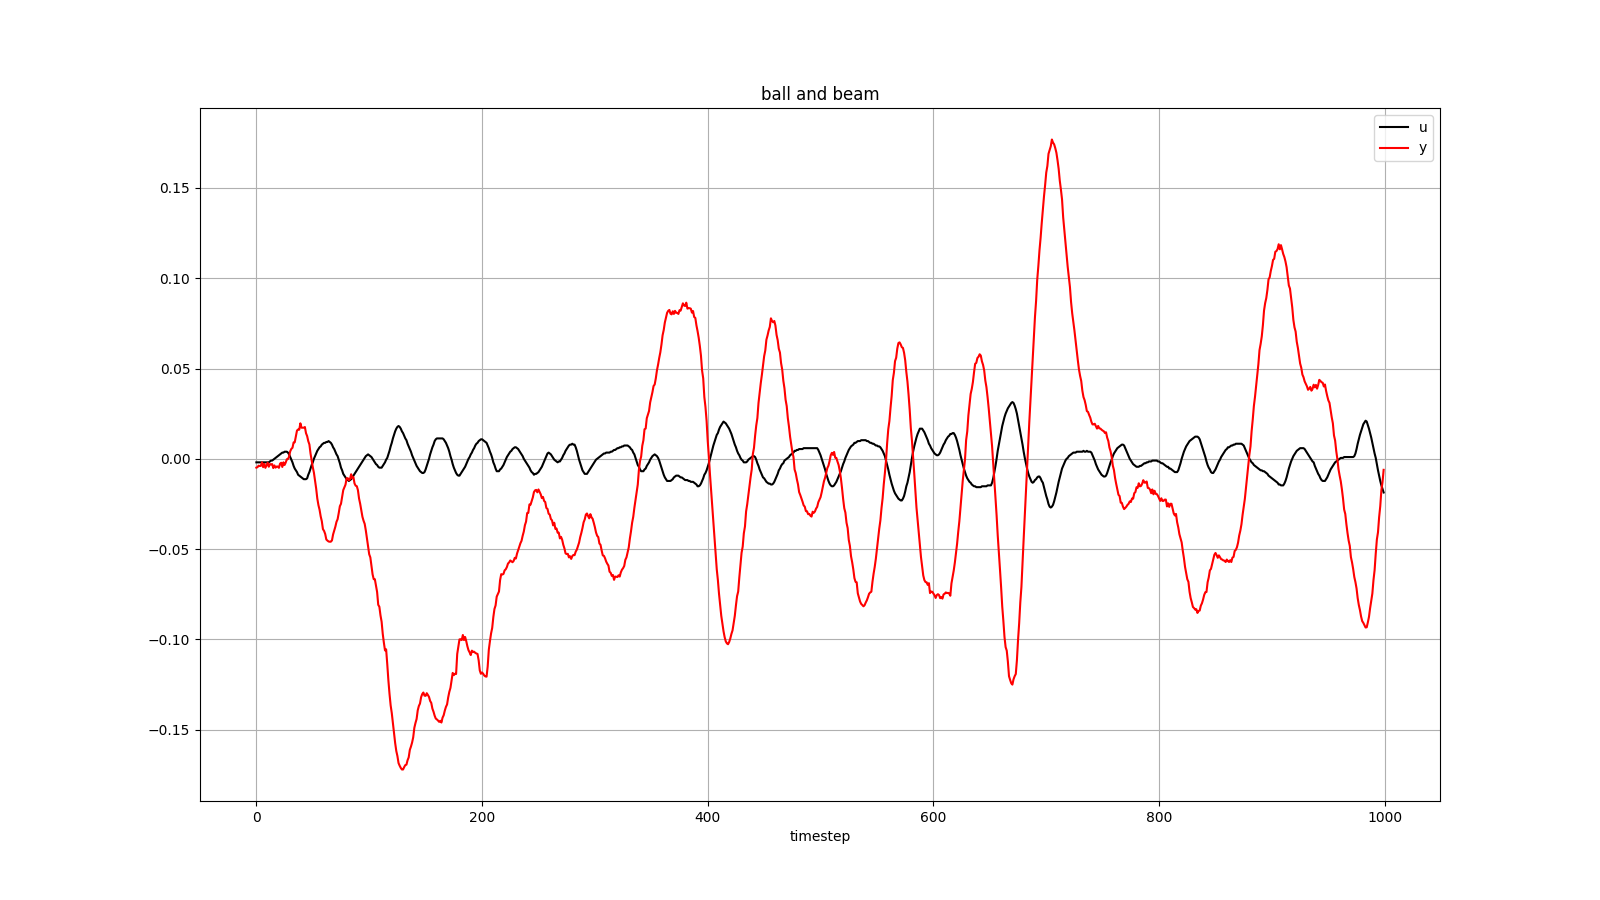
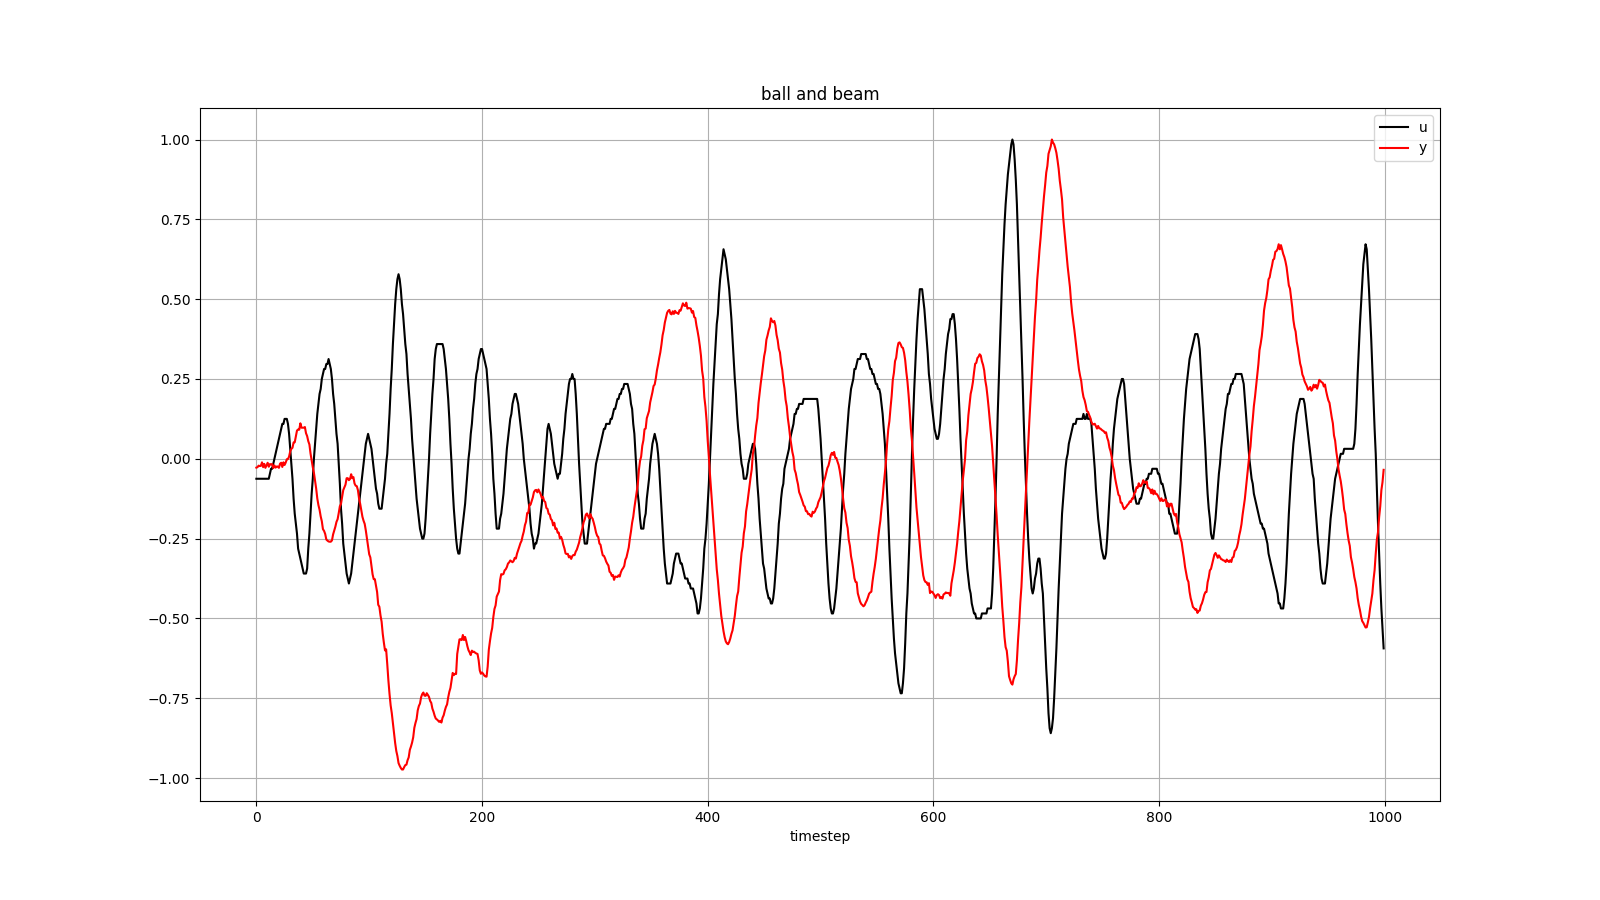
adds FINAL RESULTS to frols

diff --git a/src/main.py b/src/main.py
@@ -42,8 +42,10 @@ if __name__ == "__main__":
 
     # loading the data
 
-    dataset_name = "robot-arm"
-    df = pd.read_csv(f"src/data/{dataset_name}.csv")
+    dataset_name = "ball-and-beam"
+    
+    if dataset_name != "uniform":
+        df = pd.read_csv(f"src/data/{dataset_name}.csv")
 
     if dataset_name in ["ball-and-beam", "robot-arm"]:
         u = df["u"].values
@@ -57,33 +59,59 @@ if __name__ == "__main__":
     elif dataset_name == "tanque":
         u_train, y_train = df["uEst"].values, df["yEst"].values
         u_test, y_test = df["uVal"].values, df["yVal"].values
+    elif dataset_name == "uniform":
+        u = np.random.uniform(-1, 1, 200)
+        y = np.zeros_like(u)
+
+        for k in range(2, len(y)):
+            y[k] = -0.605 * y[k - 1] - 0.163 * y[k - 2]**2 + 0.588 * u[k - 1] - 0.240 * u[k - 2]
 
     # separate the data into training and testing sets
 
     if dataset_name != "tanque":
+        mu, my = np.max(np.abs(u)), np.max(np.abs(y))
+
+        u = u / mu
+        y = y / my
+
+        n_train = int(0.2 * u.shape[0])
+        u_train, u_test = u[-n_train:], u[:-n_train]
+        y_train, y_test = y[-n_train:], y[:-n_train]
 
         plot_io(
             u=u, y=y, title=dataset_name.replace('-', ' ')
         )
+    else:
+        mu_train, mu_test = np.max(np.abs(u_train)), np.max(np.abs(u_test))
+        my_train, my_test = np.max(np.abs(y_train)), np.max(np.abs(y_test))
 
-        n_train = int(0.2 * df.shape[0])
-        u_train, u_test = u[-n_train:], u[:-n_train]
-        y_train, y_test = y[-n_train:], y[:-n_train]
+        u_train, u_test = u_train / mu_train, u_test / mu_test
+        y_train, y_test = y_train / my_train, y_test / my_test
+
+        plot_io(
+            u=u_train, y=y_train, title=f"{dataset_name.replace('-', ' ')}"
+        )
+
+    if dataset_name == "SNLS80mV":
+        dataset_name = "silverbox"
+
+    plt.savefig(f"src/results/{dataset_name}/io.png")
+    plt.show()
 
     # creating the data matrix for the train set
 
-    nu, ny, ne = 3, 3, 0
+    nu, ny, ne = 5, 5, 0
     dm = sd.data_matrix(u=u_train, y=y_train, nu=nu, ny=ny, ne=ne)
 
     # creating the candidate matrix for the train set
-    nlin = 3
+    nlin = 1
     cm, comb = sd.candidate_matrix(dm, nlin)
 
     Y = y_train[:-max(nu, ny, ne)]
 
-    tol = 0.01
+    tol = 0
     # structure selection with frols
-    selected, ERR = frols(cm, Y, tol, 5)
+    selected, ERR = frols(cm, Y, tol, 10)
 
     # parameter estimation on train set
     P = cm[:, selected]
@@ -96,6 +124,9 @@ if __name__ == "__main__":
         y=Y, y_pred=y_pred,
         title=f"{dataset_name.replace('-', ' ')} - Train"
     )
+
+    plt.savefig(f"src/results/{dataset_name}/FROLS/train.png")
+    plt.show()
 
     print("ERRi = ", ERR)
     print("ESR = %f" % (1 - np.sum(ERR)))
@@ -122,6 +153,8 @@ if __name__ == "__main__":
         y=Y, y_pred=y_pred,
         title=f"{dataset_name.replace('-', ' ')} - Validation"
     )
+
+    plt.savefig(f"src/results/{dataset_name}/FROLS/test.png")
 
     # computes mean squared error
 
